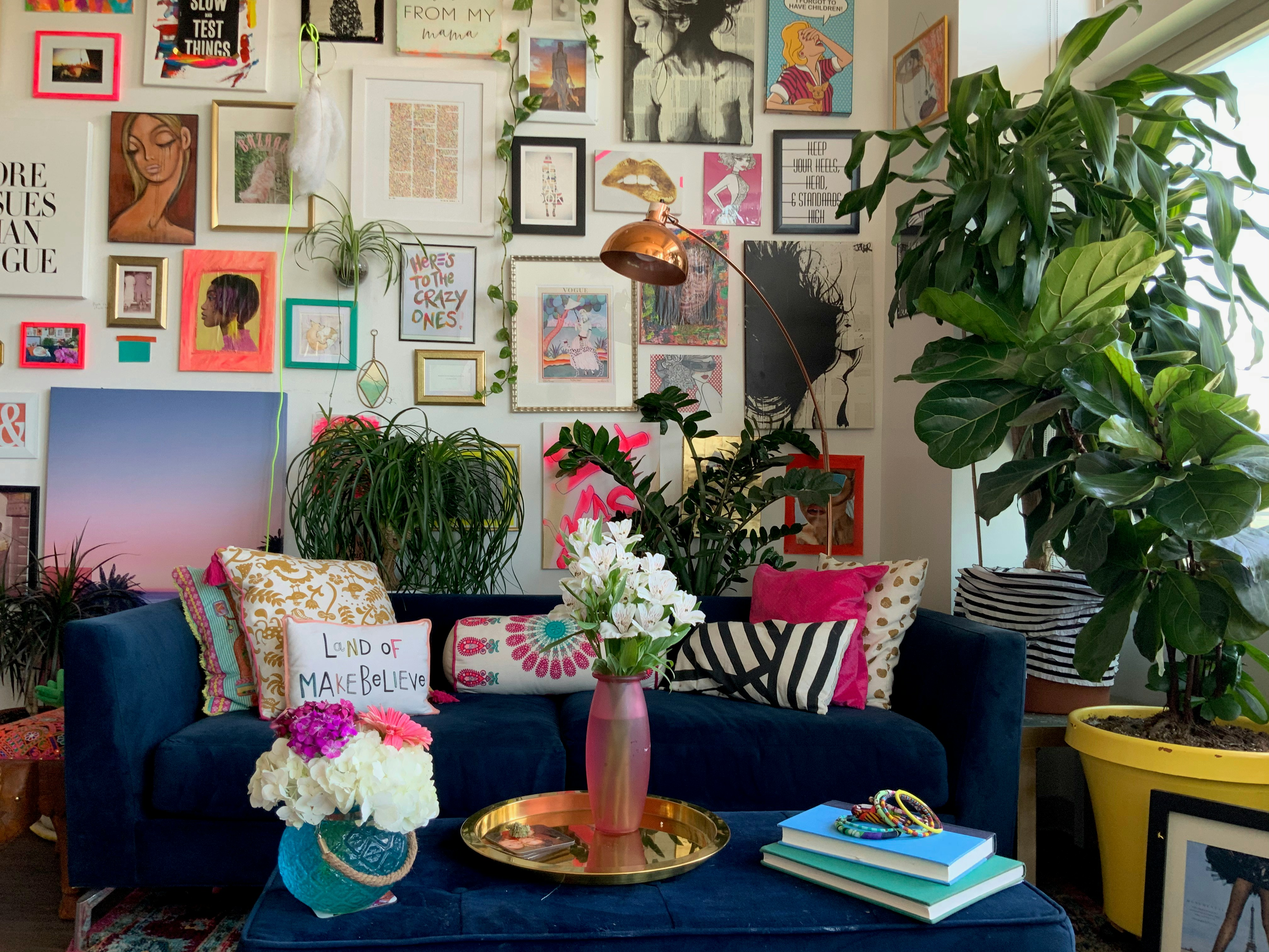
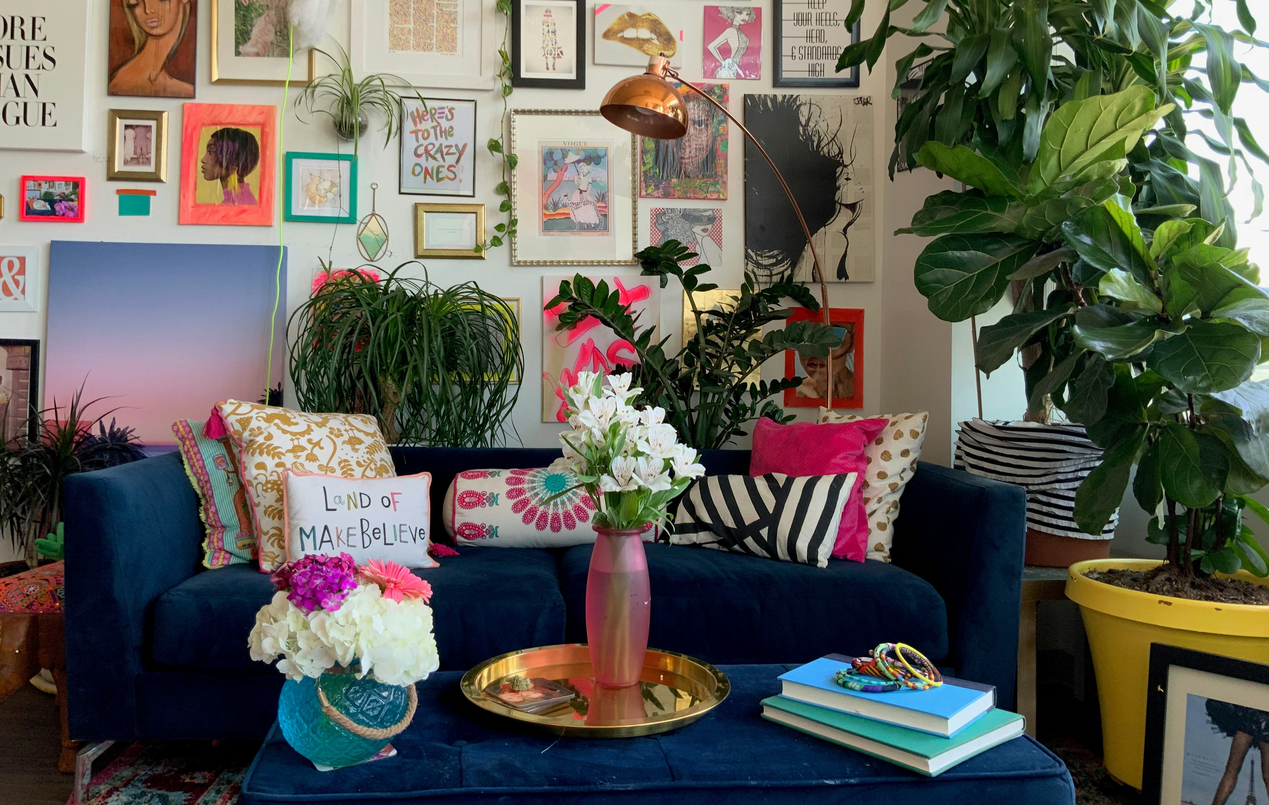
Background image inappropriate picture removed

diff --git a/Chores-website/signupscreen.html b/Chores-website/signupscreen.html
@@ -8,17 +8,17 @@
         integrity="sha384-QWTKZyjpPEjISv5WaRU9OFeRpok6YctnYmDr5pNlyT2bRjXh0JMhjY6hW+ALEwIH" crossorigin="anonymous">
 
     <link rel="stylesheet" type="text/css" href="style/style.css">
-    
+
     <title>Sign up</title>
 
 </head>
 
 <body>
         <div class="container" style="max-width: 500px;">
+            <h2 class="text-center w-100">Chores Inc</h2>
             <img src="img/logo.png" class="img-fluid mx-auto d-block mb-4" alt="Logo" width="250" height="250">
             <h2 class="mb-4 text-center">Register to our site</h2>
             <form>
-                <!-- Name fields -->
                 <div class="row mb-3">
                     <div class="col">
                         <input type="text" class="form-control" placeholder="First name" aria-label="First name"
@@ -28,13 +28,11 @@
                         <input type="text" class="form-control" placeholder="Last name" aria-label="Last name" required>
                     </div>
                 </div>
-                <!-- Email field -->
                 <div class="row mb-3">
                     <div class="col">
                         <input type="email" class="form-control" placeholder="Email" aria-label="Email" required>
                     </div>
                 </div>
-                <!-- Password fields -->
                 <div class="row mb-4">
                     <div class="col-12 col-md-6 mb-3 mb-md-0">
                         <input type="password" class="form-control" placeholder="Password" aria-label="Password"
@@ -51,6 +49,7 @@
                     </div>
                 </div>
             </form>
+            <p class="mt-5 mb-3 text-muted text-center">© Ariel & Narkis 2024</p>
         </div>
 </body>
 

diff --git a/Chores-website/loginscreen.html b/Chores-website/loginscreen.html
@@ -9,13 +9,13 @@
   <link rel="stylesheet" type="text/css" href="style/style.css">
 </head>
 <body>
-  <div class="container d-flex flex-column justify-content-center align-items-center " style="max-width: 500px;">
+  <div class="container text-center d-flex flex-column justify-content-center align-items-center " style="max-width: 500px;">
     <h2 class="text-center w-100">Chores Inc</h2>
     <form id="signInForm" class="form-signin w-100">
       <div class="text-center mb-4">
-        <img src="img/logo.png" class="img-fluid" alt="Logo" width="250" height="250">
+        <img src="img/logo.png" class="img-fluid mx-auto d-block mb-4" alt="Logo" width="250" height="250">
       </div>
-      <h3 class="h3 mb-3">Please sign in</h3>
+      <h2 class="mb-4 text-center">Sign in to our site</h2>
       <div class="form-group mb-3">
         <input type="email" id="inputEmail" class="form-control" placeholder="Email address" required autofocus>
       </div>
@@ -28,7 +28,7 @@
       </div>
       <button id="signInButton" class="btn btn-lg btn-primary w-100" type="submit">Sign in</button>
       <div class="signup-section">
-        <p>New here? <a href="signup screen.html">Sign up here</a></p>
+        <p>New here? <a href="signupscreen.html">Sign up here</a></p>
       </div>
     </form>
     <p class="mt-5 mb-3 text-muted text-center">© Ariel & Narkis 2024</p>
@@ -37,7 +37,7 @@
   <script>
     document.getElementById('signInForm').addEventListener('submit', function(event) {
       event.preventDefault(); // Prevent the default form submission
-      window.location.href = 'signup screen.html';
+      window.location.href = 'signupscreen.html';
     });
   </script>
 </body>
